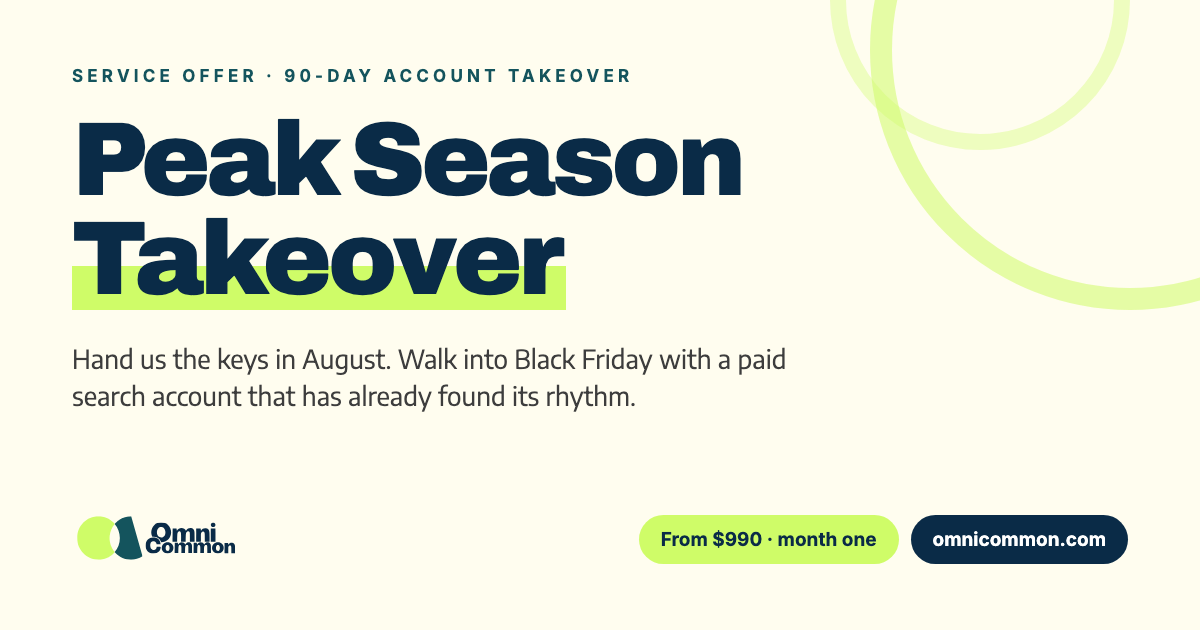
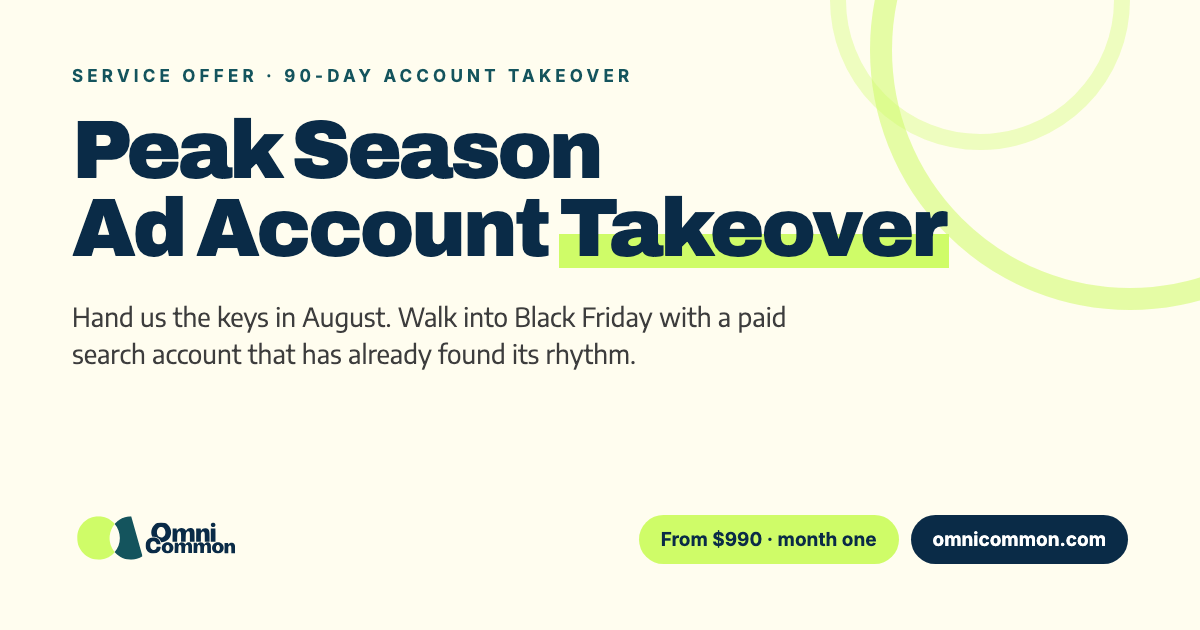
Peak Season LP: retitle to "Peak Season Ad Account Takeover"
- h1 and page <title> now read "Peak Season Ad Account Takeover"
- Headline breaks as "Peak Season" / "Ad Account Takeover", keeping the
  lime highlight on "Takeover"
- Hero two-column split moved from lg to xl, and the headline size capped
  at 3.5rem. The longer headline wrapped to three lines at 1024-1280px,
  where the 380px timeline card squeezed the text column to 388px
- Regenerated the OG card to match the new headline

Changed region(s): [[0.0617, 0.181, 0.8017, 0.6635]]

diff --git a/src/app/ppc-black-friday-peak-season-takeover/peak-season-view.tsx b/src/app/ppc-black-friday-peak-season-takeover/peak-season-view.tsx
@@ -11,7 +11,8 @@ import { Footer } from "@/components/footer";
 const HERO = {
   eyebrow: "Service Offer · 90-Day Account Takeover",
   heading_line1: "Peak Season",
-  heading_line2: "Takeover",
+  heading_line2_lead: "Ad Account",
+  heading_line2_accent: "Takeover",
   description:
     "Hand us the keys in August. Walk into Black Friday with a paid search account that has already found its rhythm.",
   cta: { label: "Book a 20-minute intro call", href: "#lets-chat" },
@@ -180,7 +181,7 @@ export default function PeakSeasonView() {
       {/* ── Hero ─────────────────────────────────────────────────────────── */}
       <section className="relative overflow-hidden">
         <div className="site-container relative px-6 pb-20 pt-6 md:px-12 md:pb-24 md:pt-10 lg:px-24">
-          <div className="grid gap-12 lg:grid-cols-[minmax(0,1fr)_380px] lg:items-start lg:gap-16">
+          <div className="grid gap-12 xl:grid-cols-[minmax(0,1fr)_380px] xl:items-start xl:gap-16">
             {/* Left — headline */}
             <div>
               <motion.div
@@ -198,7 +199,7 @@ export default function PeakSeasonView() {
                   fontWeight: 900,
                   color: "var(--navy)",
                   letterSpacing: "-0.035em",
-                  fontSize: "clamp(2.75rem, 7vw, 5.25rem)",
+                  fontSize: "clamp(2.25rem, 4.6vw, 3.5rem)",
                   lineHeight: 0.98,
                 }}
                 initial={{ opacity: 0, y: 40 }}
@@ -206,15 +207,18 @@ export default function PeakSeasonView() {
                 transition={{ duration: 1, ease: EASE }}
               >
                 <span className="block">{HERO.heading_line1}</span>
-                <span
-                  className="inline-block"
-                  style={{
-                    backgroundImage:
-                      "linear-gradient(to top, var(--lime) 0%, var(--lime) 44%, transparent 44%)",
-                    paddingRight: "0.06em",
-                  }}
-                >
-                  {HERO.heading_line2}
+                <span className="block">
+                  {HERO.heading_line2_lead}{" "}
+                  <span
+                    className="inline-block"
+                    style={{
+                      backgroundImage:
+                        "linear-gradient(to top, var(--lime) 0%, var(--lime) 44%, transparent 44%)",
+                      paddingRight: "0.06em",
+                    }}
+                  >
+                    {HERO.heading_line2_accent}
+                  </span>
                 </span>
               </motion.h1>
 

diff --git a/src/app/ppc-black-friday-peak-season-takeover/page.tsx b/src/app/ppc-black-friday-peak-season-takeover/page.tsx
@@ -1,7 +1,7 @@
 import type { Metadata } from "next";
 import PeakSeasonView from "./peak-season-view";
 
-const TITLE = "Peak Season Takeover — 90-Day Paid Search Account Takeover";
+const TITLE = "Peak Season Ad Account Takeover";
 const DESCRIPTION =
   "Hand us the keys in August. Walk into Black Friday with a paid search account that has already found its rhythm. 90-day account takeover from $990.";
 const PATH = "/ppc-black-friday-peak-season-takeover/";
@@ -12,7 +12,7 @@ const OG_IMAGE = {
   url: "/og-peak-season-takeover.png",
   width: 1200,
   height: 630,
-  alt: "Peak Season Takeover — 90-day paid search account takeover from Omni Common",
+  alt: "Peak Season Ad Account Takeover — 90-day paid search takeover from Omni Common",
 };
 
 export const metadata: Metadata = {
